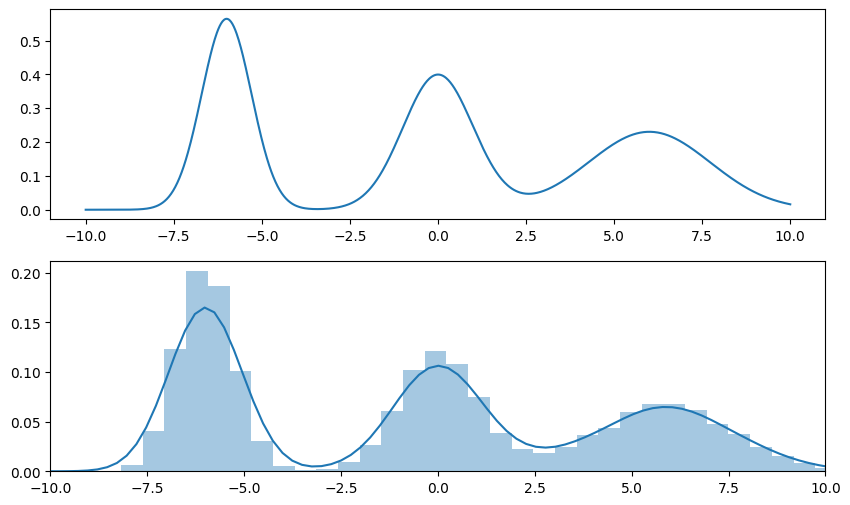
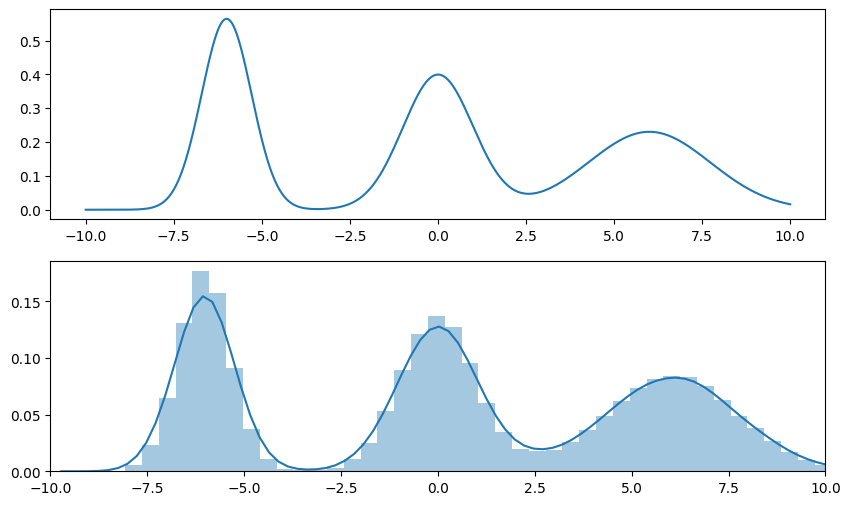
speed up with numba

diff --git a/test/mcmc.py b/test/mcmc.py
@@ -1,10 +1,11 @@
 import unittest
 from probpy.distributions import normal
-from probpy.distributions import uniform
-from probpy.mcmc import metropolis_hastings, metropolis
+from probpy.mcmc import metropolis_hastings, metropolis, fast_metropolis_hastings
 import matplotlib.pyplot as plt
 import seaborn as sb
 import numpy as np
+import time
+import numba
 
 
 class TestMCMC(unittest.TestCase):
@@ -17,8 +18,18 @@ class TestMCMC(unittest.TestCase):
         sb.lineplot(x, pdf(x))
 
         plt.subplot(2, 1, 2)
-        samples = metropolis_hastings(50000, pdf, normal.freeze(sigma=1.0), initial=-5)
-        samples = samples[10000:]
+        # timestamp = time.time()
+        # samples = metropolis_hastings(50000, pdf, normal.freeze(sigma=1.0), initial=-5)
+        # print(f"MH took {time.time() - timestamp}")
+
+        timestamp = time.time()
+        fast_samples = fast_metropolis_hastings(400000, pdf, initial=-5.0, energy=0.3)
+        print(f"fast MH took {time.time() - timestamp}")
+
+        samples = fast_samples[100000:]
+        # samples = samples[10000:]
+
+        print(samples)
 
         sb.distplot(samples)
         plt.xlim([-10, 10])
@@ -36,14 +47,17 @@ class TestMCMC(unittest.TestCase):
 
         plt.subplot(2, 1, 2)
         plt.title("Estimated with 100000 samples", fontsize=18)
-        samples = metropolis(size=100000, pdf=pdf, proposal=normal.freeze(mu=0, sigma=10), M=30.0)
+        timestamp = time.time()
+        samples = metropolis(size=1000000, pdf=pdf, proposal=normal.freeze(mu=0, sigma=10), M=30.0)
+        print(time.time() - timestamp)
+
         samples = samples[1000:]
 
-        sb.distplot(samples)
-        plt.tight_layout()
-        plt.xlim([-10, 10])
-        plt.savefig("../images/metropolis.png", bbox_inches="tight")
-        plt.show()
+        # sb.distplot(samples)
+        # plt.tight_layout()
+        # plt.xlim([-10, 10])
+        # plt.savefig("../images/metropolis.png", bbox_inches="tight")
+        # plt.show()
 
 
 if __name__ == '__main__':

diff --git a/probpy/mcmc.py b/probpy/mcmc.py
@@ -1,9 +1,11 @@
 from typing import Callable as F
 from typing import List
 import numpy as np
+import numba
 from .core import RandomVariable
 
 
+@numba.jit(nopython=False, forceobj=True)
 def metropolis_hastings(size: int,
                         pdf: F[[np.ndarray], np.ndarray],
                         proposal: RandomVariable,
@@ -25,6 +27,32 @@ def metropolis_hastings(size: int,
     return samples
 
 
+@numba.jit(nopython=False, forceobj=True)
+def fast_metropolis_hastings(size: int,
+                             pdf: F[[np.ndarray], np.ndarray],
+                             initial: np.ndarray,
+                             energy: float = 1.0):
+    initial = np.array(initial)
+    dim = initial.size
+    if dim == 1: jumps = np.random.normal(0, energy, size=size)
+    else: jumps = np.random.multivariate_normal(np.zeros(dim), np.eye(dim) * energy, size=size)
+
+    barriers = np.random.rand(size)
+    p = initial
+    j = 0
+    result = np.zeros(size, dtype=np.float32)
+    for i in range(size):
+        while True:
+            sample = p + jumps[j % size]
+            accept_rate = np.minimum(pdf(sample) / pdf(p), 1.0)
+            if accept_rate >= barriers[j % size]:
+                break
+            j += 1
+        j += 1
+        result[i], p = sample, sample
+    return result
+
+
 def metropolis(size: int,
                pdf: F[[np.ndarray], np.ndarray],
                proposal: RandomVariable,
@@ -37,10 +65,11 @@ def metropolis(size: int,
         accept_rate = pdf(sample) / (M * proposal.p(sample))
 
         max_rate = accept_rate.max()
-        if max_rate > 1.0: raise Exception(f"M to small, accept rate {max_rate} > 1.0. m: {M} ")
+        if max_rate > 1.0: raise Exception("M to small, accept rate %s > 1.0. m: " % (accept_rate, max_rate))
 
         rejection_probability = np.random.rand(remainder)
         accept_mask = accept_rate > rejection_probability
+
 
         samples.extend(sample[accept_mask])
 

diff --git a/probpy/distributions/normal.py b/probpy/distributions/normal.py
@@ -1,4 +1,5 @@
 import numpy as np
+import numba
 
 from probpy.core import Distribution, RandomVariable
 
@@ -27,10 +28,12 @@ class MultiVariateNormal(Distribution):
         return RandomVariable(_sample, _p, shape=shape)
 
     @staticmethod
+    @numba.jit(nopython=False, forceobj=True)
     def sample(mu: np.ndarray, sigma: np.ndarray, shape: np.ndarray = ()) -> np.ndarray:
         return np.random.multivariate_normal(mu, sigma, size=shape)
 
     @staticmethod
+    @numba.jit(nopython=False, forceobj=True)
     def p(X: np.ndarray, mu: np.ndarray, sigma: np.ndarray) -> np.ndarray:
         normalizing_constant = np.float_power(2 * np.pi, -mu.size / 2) * np.float_power(np.linalg.det(sigma), -0.5)
         return np.array(
@@ -57,10 +60,12 @@ class Normal(Distribution):
         return RandomVariable(_sample, _p, shape=())
 
     @staticmethod
+    @numba.jit(nopython=False, forceobj=True)
     def sample(mu: np.ndarray, sigma: np.ndarray, shape: np.ndarray = ()) -> np.ndarray:
         return np.random.normal(mu, np.sqrt(sigma), size=shape)
 
     @staticmethod
+    @numba.jit(nopython=True, forceobj=False)
     def p(x: np.ndarray, mu: np.ndarray, sigma: np.ndarray) -> np.ndarray:
         normalizing_constant = np.sqrt(2 * np.pi * sigma)
         return np.exp((-1 / 2) * np.square(x - mu) / sigma) / normalizing_constant

diff --git a/test/integration.py b/test/integration.py
@@ -5,9 +5,35 @@ from probpy.distributions import normal, multivariate_normal
 import numpy as np
 import matplotlib.pyplot as plt
 import seaborn as sb
+import time
 
 
 class TestIntegration(unittest.TestCase):
+
+    def test_uniform_importance_sampling_performance(self):
+        f = lambda x: -np.square(x) + 3
+
+        timestamp = time.time()
+        uniform_importance_sampling(size=10000000,
+                                    function=f,
+                                    domain=(-2, 2),
+                                    proposal=normal.freeze(mu=0, sigma=2))
+
+        print(time.time() - timestamp)
+
+        f = lambda x: -np.square(x[:, 0]) + np.square(x[:, 1])
+
+        lower_bound = np.array([0, 0])
+        upper_bound = np.array([4, 2])
+
+        timestamp = time.time()
+        uniform_importance_sampling(size=100000,
+                                    function=f,
+                                    domain=(lower_bound, upper_bound),
+                                    proposal=multivariate_normal.freeze(mu=np.zeros(2),
+                                                                       sigma=np.eye(2) * 2))
+        print(time.time() - timestamp)
+
     def test_uniform_importance_sampling(self):
         f = lambda x: -np.square(x) + 3
 

diff --git a/probpy/distributions/multinomial.py b/probpy/distributions/multinomial.py
@@ -1,4 +1,5 @@
 import numpy as np
+import numba
 
 from probpy.core import Distribution, RandomVariable
 
@@ -27,6 +28,7 @@ class Multinomial(Distribution):
         return RandomVariable(_sample, _p, shape=shape)
 
     @staticmethod
+    @numba.jit(nopython=True, forceobj=False)
     def _combinations_high_n(_, x):
         # Not broadcastable but deals well with large n
         # Might suffer some precision problems though
@@ -41,10 +43,12 @@ class Multinomial(Distribution):
         return res
 
     @staticmethod
+    @numba.jit(nopython=False, forceobj=True)
     def sample(n: int, p: np.ndarray, shape=()) -> np.ndarray:
         return np.random.multinomial(n, p, size=shape)
 
     @staticmethod
+    @numba.jit(nopython=False, forceobj=True)
     def p(x: np.ndarray, n: int, p: np.float32) -> np.ndarray:
         constants = np.array([Multinomial._combinations_high_n(n, _x) for _x in x])
         return constants * np.prod(np.float_power(p, x), axis=1)

diff --git a/probpy/distributions/binomial.py b/probpy/distributions/binomial.py
@@ -1,4 +1,5 @@
 import numpy as np
+import numba
 
 from probpy.core import Distribution, RandomVariable
 
@@ -23,6 +24,7 @@ class Binomial(Distribution):
         return RandomVariable(_sample, _p, shape=())
 
     @staticmethod
+    @numba.jit(nopython=True, forceobj=False)
     def _combinations_high_n(n, x):
         # Not broadcastable but deals well with large n
         # Might suffer some precision problems though
@@ -33,10 +35,12 @@ class Binomial(Distribution):
         return res
 
     @staticmethod
+    @numba.jit(nopython=False, forceobj=True)
     def sample(n: int, p: np.float32, shape=()) -> np.ndarray:
         return np.random.binomial(n, p, size=shape)
 
     @staticmethod
+    @numba.jit(nopython=False, forceobj=True)
     def p(x: np.ndarray, n: int, p: np.float32) -> np.ndarray:
         constants = np.array([Binomial._combinations_high_n(n, _x) for _x in x])
         return constants * np.float_power(p, x) * np.float_power(1 - p, n - x)

diff --git a/probpy/distributions/uniform.py b/probpy/distributions/uniform.py
@@ -1,4 +1,5 @@
 import numpy as np
+import numba
 
 from probpy.core import Distribution, RandomVariable
 
@@ -23,6 +24,7 @@ class Uniform(Distribution):
         return RandomVariable(_sample, _p, shape=())
 
     @staticmethod
+    @numba.jit(nopython=False, forceobj=True)
     def sample(a: np.ndarray, b: np.ndarray, shape: np.ndarray = ()) -> np.ndarray:
         if type(shape) == int:
             return a + np.random.rand(shape) * (b - a)
@@ -30,6 +32,7 @@ class Uniform(Distribution):
         return a + np.random.rand(*shape) * (b - a)
 
     @staticmethod
+    @numba.jit(nopython=True, forceobj=False)
     def p(x: np.ndarray, a: np.ndarray, b: np.ndarray) -> np.ndarray:
         return ((a < x) & (x < b)).astype(np.float32) / (b - a)
 

diff --git a/probpy/distributions/categorical.py b/probpy/distributions/categorical.py
@@ -1,4 +1,5 @@
 import numpy as np
+import numba
 
 from probpy.core import Distribution, RandomVariable
 
@@ -17,13 +18,16 @@ class Categorical(Distribution):
         return RandomVariable(_sample, _p, shape=())
 
     @staticmethod
+    @numba.jit(nopython=False, forceobj=True)
     def sample(p: np.ndarray, shape=()) -> np.ndarray:
         return np.random.choice(np.arange(p.size), p=p, size=shape)
 
     @staticmethod
+    @numba.jit(nopython=True, forceobj=False)
     def p(x: np.ndarray, p: np.ndarray) -> np.ndarray:
         return p[x]
 
     @staticmethod
+    @numba.jit(nopython=True, forceobj=False)
     def one_hot(samples: np.ndarray, size: int) -> np.ndarray:
         return np.eye(size)[samples]

diff --git a/probpy/distributions/bernoulli.py b/probpy/distributions/bernoulli.py
@@ -1,4 +1,5 @@
 import numpy as np
+import numba
 
 from probpy.core import Distribution, RandomVariable
 
@@ -17,12 +18,14 @@ class Bernoulli(Distribution):
         return RandomVariable(_sample, _p, shape=())
 
     @staticmethod
+    @numba.jit(nopython=False, forceobj=True)
     def sample(p: np.float32, shape = ()) -> np.ndarray:
         if type(shape) == int:
             return (np.random.rand(shape) < p).astype(np.float32)
         return (np.random.rand(*shape) < p).astype(np.float32)
 
     @staticmethod
+    @numba.jit(nopython=True, forceobj=False)
     def p(x: np.ndarray, p: np.float32) -> np.ndarray:
         res = np.zeros_like(x)
         res[x != 1.0] = 1 - p

diff --git a/probpy/distributions/exponential.py b/probpy/distributions/exponential.py
@@ -1,4 +1,5 @@
 import numpy as np
+import numba
 
 from probpy.core import Distribution, RandomVariable
 
@@ -17,10 +18,12 @@ class Exponential(Distribution):
         return RandomVariable(_sample, _p, shape=())
 
     @staticmethod
+    @numba.jit(nopython=False, forceobj=True)
     def sample(lam: np.float32, shape=()) -> np.ndarray:
         return np.random.exponential(1 / lam, size=shape)
 
     @staticmethod
+    @numba.jit(nopython=True, forceobj=False)
     def p(x: np.ndarray, lam: np.float32) -> np.ndarray:
         return lam * np.exp(-lam * x)
 

diff --git a/probpy/distributions/dirichlet.py b/probpy/distributions/dirichlet.py
@@ -1,4 +1,5 @@
 import numpy as np
+import numba
 
 from probpy.core import Distribution, RandomVariable
 from probpy.special import gamma
@@ -20,6 +21,7 @@ class Dirichlet(Distribution):
         return RandomVariable(_sample, _p, shape)
 
     @staticmethod
+    @numba.jit(nopython=False, forceobj=True)
     def sample(alpha: np.ndarray, shape=()) -> np.ndarray:
         return np.random.dirichlet(alpha, size=shape)
 

diff --git a/setup.py b/setup.py
@@ -8,7 +8,7 @@ setuptools.setup(
     description="Probabilistic utilities for numpy",
     url="https://github.com/JonasRSV/probpy",
     packages=setuptools.find_packages(),
-    install_requires=["numpy=1.18.1"],
+    install_requires=["numpy=1.18.1", "numba==0.48"],
     classifiers=[
         "Programming Language :: Python :: 3",
         "License :: OSI Approved :: MIT License",
